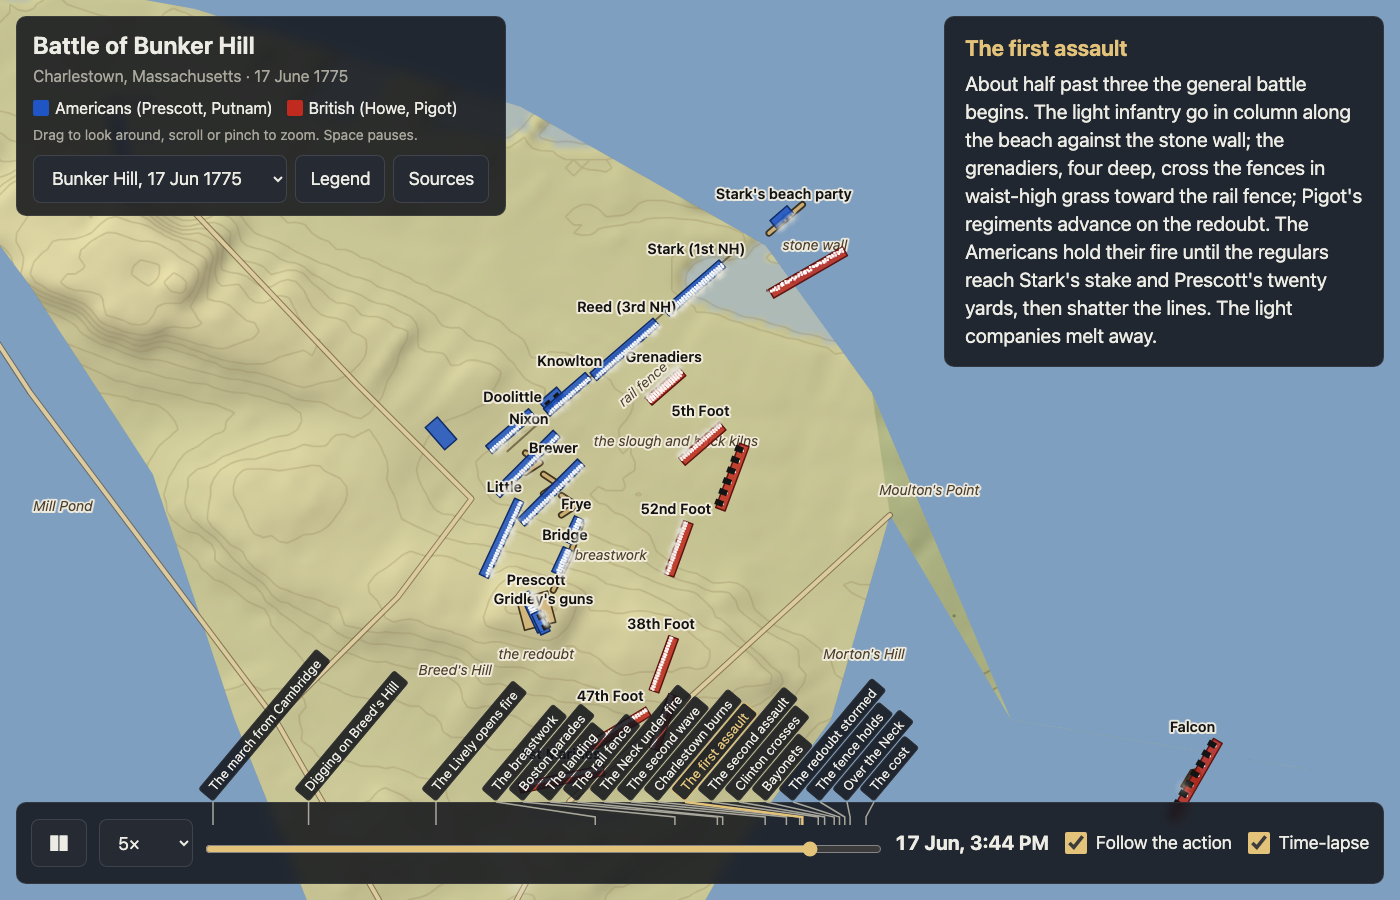
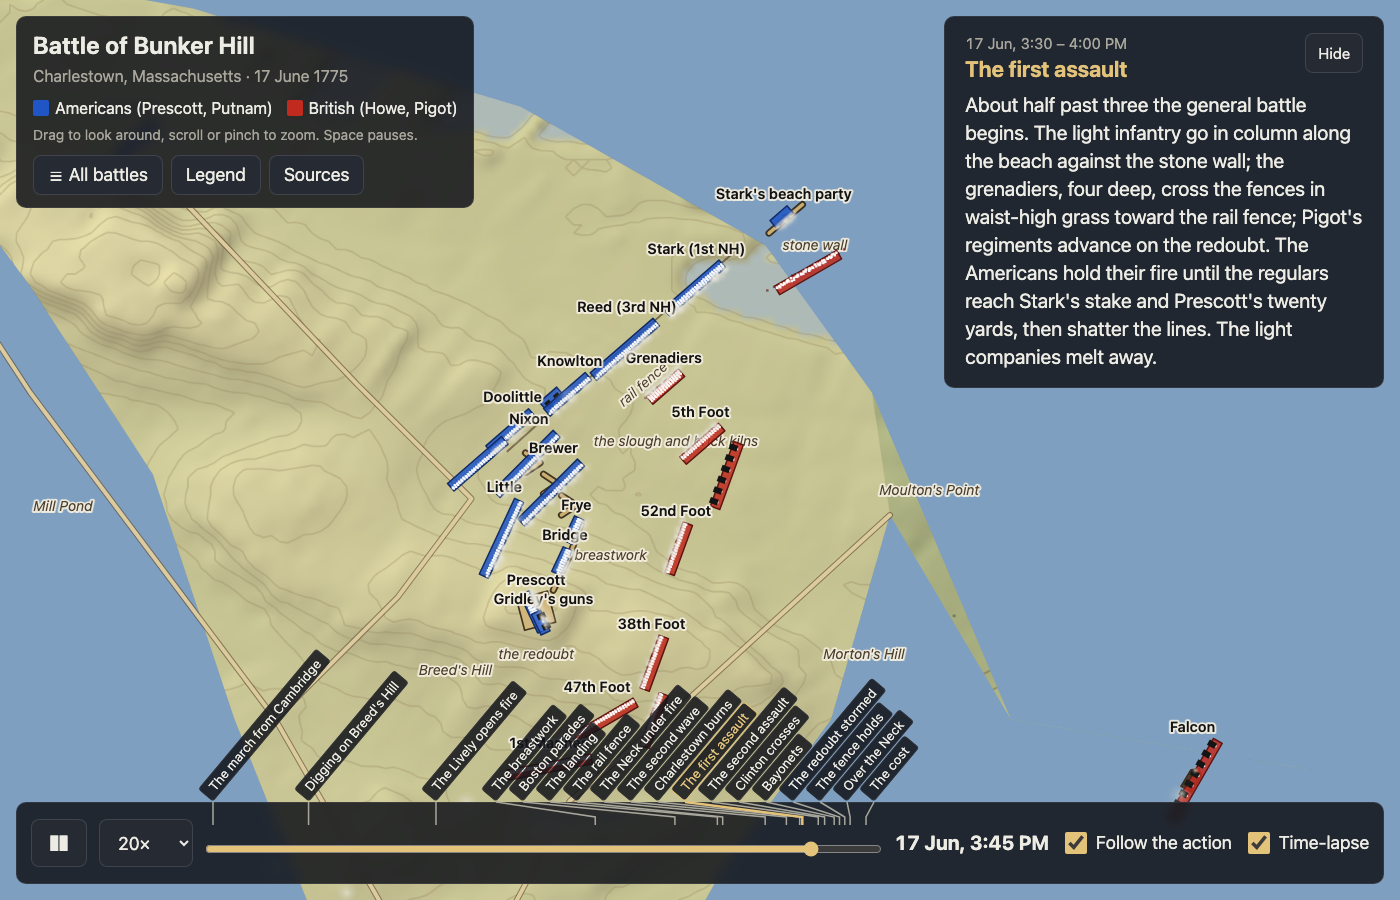
Drop the battle dropdown; chapter times and a Hide button on the story
The start screen now chooses battles, so the top panel loses its
dropdown and keeps one row: All battles, Legend, Sources. The story
panel shows each chapter's span of time above its title, opens at every
new chapter, and folds to the title with Hide.

Claude-Session: https://claude.ai/code/session_01US5GXUxojnCZWhZHcue3aU

diff --git a/app.js b/app.js
@@ -2,8 +2,8 @@ import { SPEEDS, STATE_TEXT, normalizeBattle, unitAt, shape, dots, eventAt, adva
 
 const $ = s => document.querySelector(s);
 const canvas = $('#map'), ctx = canvas.getContext('2d');
-const ui = { play: $('#play'), speed: $('#speed'), scrub: $('#scrub'), clock: $('#clock'), follow: $('#follow'), battle: $('#battle'),
-  title: $('#title'), sub: $('#sub'), legend: $('#legend'), caption: $('#caption'), capTitle: $('#cap-title'), capText: $('#cap-text'),
+const ui = { play: $('#play'), speed: $('#speed'), scrub: $('#scrub'), clock: $('#clock'), follow: $('#follow'),
+  title: $('#title'), sub: $('#sub'), legend: $('#legend'), caption: $('#caption'), capTitle: $('#cap-title'), capText: $('#cap-text'), capWhen: $('#cap-when'), capFold: $('#cap-fold'),
   hover: $('#hover'), sources: $('#sources'), srcBtn: $('#src-btn'), srcList: $('#src-list'), lapse: $('#lapse'),
   marks: $('#marks'), splash: $('#splash'), splashList: $('#splash-list'), plan: $('#plan'), home: $('#home'), legendBtn: $('#legend-btn'), legendDlg: $('#legend-dlg'), legendList: $('#legend-list') };
 
@@ -472,7 +472,9 @@ function updateHud() {
     shownEvent = curEvent;
     ui.capTitle.textContent = curEvent?.title ?? '';
     ui.capText.textContent = curEvent?.text ?? '';
+    ui.capWhen.textContent = curEvent ? chapterSpan(curEvent) : '';
     ui.caption.classList.toggle('show', !!curEvent);
+    foldCaption(false); // every new chapter opens with its story showing
     marks.forEach((m, i) => { m.classList.toggle('on', B.events[i] === curEvent); leads[i].classList.toggle('on', B.events[i] === curEvent); });
   }
   let best = null, bd = 28;
@@ -489,6 +491,22 @@ function updateHud() {
   if (best) ui.hover.innerHTML = `<b>${best.name}</b><br>${best.commander ? best.commander + '<br>' : ''}${B.sides[best.side].name} · ${best.type.replace('_', ' ')}<br>${Math.round(best.pose.strength)} men · ${STATE_TEXT[best.pose.state] ?? ''}`;
 }
 
+// "8:00 – 8:15 AM", or "26 Dec, 8:00 AM – 27 Dec, 3:00 AM": from this chapter to the next, the day given once when it does not change.
+function chapterSpan(ev) {
+  const i = B.events.indexOf(ev), a = fmtTime(ev.t), b = fmtTime(B.events[i + 1]?.t ?? B.endT);
+  const [da, ta] = a.includes(', ') ? a.split(', ') : ['', a], [db, tb] = b.includes(', ') ? b.split(', ') : ['', b];
+  const [ha, pa] = ta.split(' '), [, pb] = tb.split(' ');
+  if (da !== db) return `${a} – ${b}`;
+  return `${da ? da + ', ' : ''}${pa === pb ? ha : ta} – ${tb}`;
+}
+function foldCaption(v) {
+  ui.caption.classList.toggle('folded', v);
+  ui.capFold.textContent = v ? 'Show' : 'Hide';
+  ui.capFold.setAttribute('aria-expanded', String(!v));
+  ui.capFold.title = ui.capFold.ariaLabel = v ? 'Show the story' : 'Hide the story';
+}
+ui.capFold.onclick = () => foldCaption(!ui.caption.classList.contains('folded'));
+
 const nudge = () => Math.max(30, (B.endT - B.startT) / 240); // arrow keys: 30 s, or 1/240 of a long battle
 function setPlaying(v) { playing = v; ui.play.textContent = v ? '❚❚' : '▶'; ui.play.setAttribute('aria-label', v ? 'Pause' : 'Play'); }
 function seek(v) { t = Math.max(B.startT, Math.min(B.endT, v)); smoke.length = 0; }
@@ -498,7 +516,6 @@ ui.speed.onchange = () => { speed = +ui.speed.value; };
 ui.scrub.oninput = () => seek(+ui.scrub.value);
 ui.follow.onchange = () => { follow = ui.follow.checked; };
 ui.lapse.onchange = () => { lapse = ui.lapse.checked; };
-ui.battle.onchange = () => loadBattle(ui.battle.value);
 ui.srcBtn.onclick = () => ui.sources.showModal();
 ui.legendBtn.onclick = () => ui.legendDlg.showModal();
 addEventListener('keydown', e => {
@@ -529,11 +546,6 @@ function frame(now) {
 
 for (const s of SPEEDS) ui.speed.add(new Option(`${s}×`, s));
 const list = (await (await fetch('battles/index.json')).json()).sort((a, b) => a.date.localeCompare(b.date));
-const groups = new Map(); // one optgroup per war, in order of each war's first battle
-for (const b of list) {
-  if (!groups.has(b.war)) { const g = document.createElement('optgroup'); g.label = b.war; groups.set(b.war, g); ui.battle.add(g); }
-  groups.get(b.war).append(new Option(b.name, b.id));
-}
 // ---------- start screen ----------
 
 // A period battle plan as the backdrop: one battle's own contours, roads and creeks in sepia ink, its regiments as
@@ -641,13 +653,13 @@ function showSplash(list) {
   ui.splashList.onclick = async e => {
     const id = e.target.closest('button')?.dataset.id;
     if (!id) return;
-    ui.splash.hidden = true; ui.battle.value = id; location.hash = id;
+    ui.splash.hidden = true; location.hash = id;
     await loadBattle(id); setPlaying(true);
   };
 }
 
 const want = location.hash.slice(1).split(/[@,]/)[0];
-if (list.some(b => b.id === want)) { ui.battle.value = want; await loadBattle(want); }
+if (list.some(b => b.id === want)) await loadBattle(want);
 else showSplash(list);
 ui.home.onclick = () => { setPlaying(false); showSplash(list); };
 requestAnimationFrame(frame);

diff --git a/index.html b/index.html
@@ -23,7 +23,7 @@
   #legend span { display: inline-flex; align-items: center; gap: 6px; }
   #legend i { width: 16px; height: 16px; border-radius: 2px; display: inline-block; }
   #top .row { display: flex; gap: 8px; margin-top: 10px; align-items: center; }
-  #top .row select { flex: 1; min-width: 0; }
+  #top .row button { min-height: 40px; padding: 6px 14px; }
   select, button { font: inherit; color: var(--ink); background: #262a33; border: 1px solid rgba(255,255,255,0.12); border-radius: 8px; padding: 8px 14px; min-height: 48px; }
   button { cursor: pointer; }
   button:hover, select:hover { background: #30353f; }
@@ -33,6 +33,10 @@
   .nofade #caption { transition: none; }
   #cap-title { font-weight: 650; font-size: 22px; color: var(--accent); }
   #cap-text { font-size: 20px; margin-top: 6px; }
+  .cap-head { display: flex; gap: 12px; align-items: flex-start; justify-content: space-between; }
+  #cap-when { color: var(--muted); font-size: 15px; font-variant-numeric: tabular-nums; }
+  #cap-fold { flex: none; min-height: 40px; padding: 4px 12px; font-size: 15px; }
+  #caption.folded #cap-text { display: none; }
   #bar { left: 16px; right: 16px; bottom: 16px; padding: 10px 14px; display: flex; align-items: center; gap: 12px; }
   #play { width: 56px; min-width: 56px; font-size: 22px; }
   #track { flex: 1; min-width: 80px; position: relative; padding-top: 12px; }
@@ -89,8 +93,7 @@
   <div id="legend"></div>
   <div id="hint">Drag to look around, scroll or pinch to zoom. Space pauses.</div>
   <div class="row">
-    <select id="battle" aria-label="Battle"></select>
-    <button id="home" title="All battles">☰</button>
+    <button id="home">☰ All battles</button>
     <button id="legend-btn">Legend</button>
     <button id="src-btn">Sources</button>
   </div>
@@ -99,7 +102,10 @@
 <aside id="hover" class="panel" hidden></aside>
 
 <div id="caption" class="panel">
-  <div id="cap-title"></div>
+  <div class="cap-head">
+    <div><div id="cap-when"></div><div id="cap-title"></div></div>
+    <button id="cap-fold" aria-expanded="true" aria-label="Hide the story" title="Hide the story">Hide</button>
+  </div>
   <div id="cap-text"></div>
 </div>
 

diff --git a/README.md b/README.md
@@ -41,7 +41,8 @@ screenshots see smoke and the camera; `,legend` opens the legend.
 
 The chapters sit above the scrubber as ticks, their titles slanting up over the map on leader lines
 so crowded chapters can be spread apart: click one to jump there (the camera follows again). **Legend** in the
-top panel lists only the symbols the current battle uses. Every unit carries its name when there is
+top panel lists only the symbols the current battle uses. The story panel opens at each new chapter with the chapter's span of time; **Hide** folds it to the title.
+Every unit carries its name when there is
 room; labels that would overlap are dropped, biggest unit first.
 
 **Time-lapse** (on by default, key `t`) hurries through stretches where nothing moves: the clock runs
